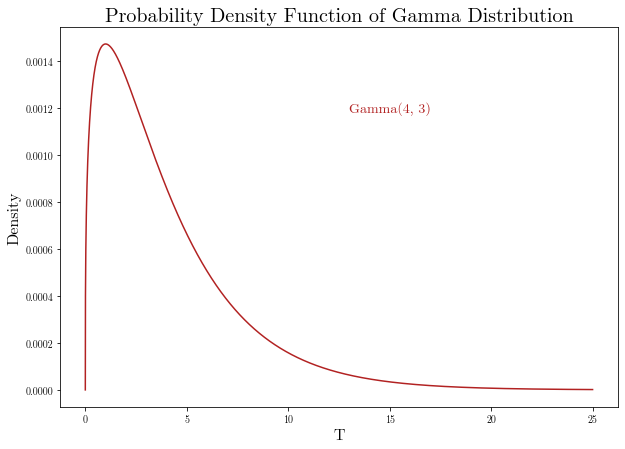
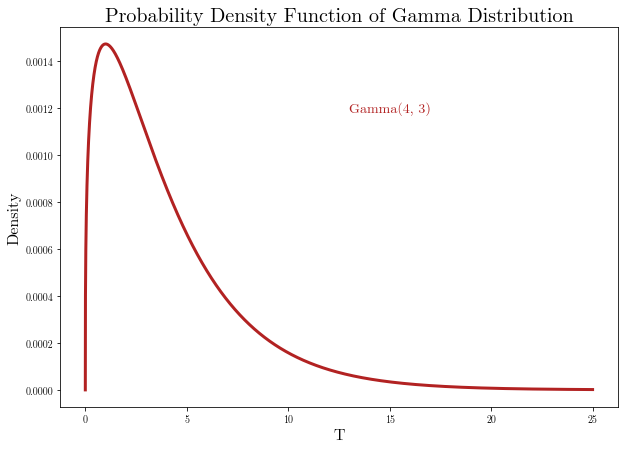
Update document

diff --git a/LaTeX Document/_assets/Gamma_cdf.py b/LaTeX Document/_assets/Gamma_cdf.py
@@ -24,7 +24,7 @@ def gamma_distribution_cdf(alpha_=4, lambda_=3):
     plt.annotate(f"Gamma({alpha_}, {lambda_})", xy=(2.5, 0.028), size=14, ha="center", va="center", color="firebrick")
     plt.xlabel("T", fontsize=16)
     plt.ylabel("Probability", fontsize=16)
-    plt.plot(x, Fx, color="firebrick")
+    plt.plot(x, Fx, linewidth=3, color="firebrick")
     plt.show()
 
 

diff --git a/LaTeX Document/_assets/Gamma_pdf.py b/LaTeX Document/_assets/Gamma_pdf.py
@@ -19,7 +19,7 @@ def gamma_distribution_pdf(alpha_=4, lambda_=3):
     plt.annotate(f"Gamma({alpha_}, {lambda_})", xy=(15, 0.0012), size=14, ha="center", va="center", color="firebrick")
     plt.xlabel("T", fontsize=16)
     plt.ylabel("Density", fontsize=16)
-    plt.plot(x, fx, color="firebrick")
+    plt.plot(x, fx, linewidth=3, color="firebrick")
     plt.show()
 
 
